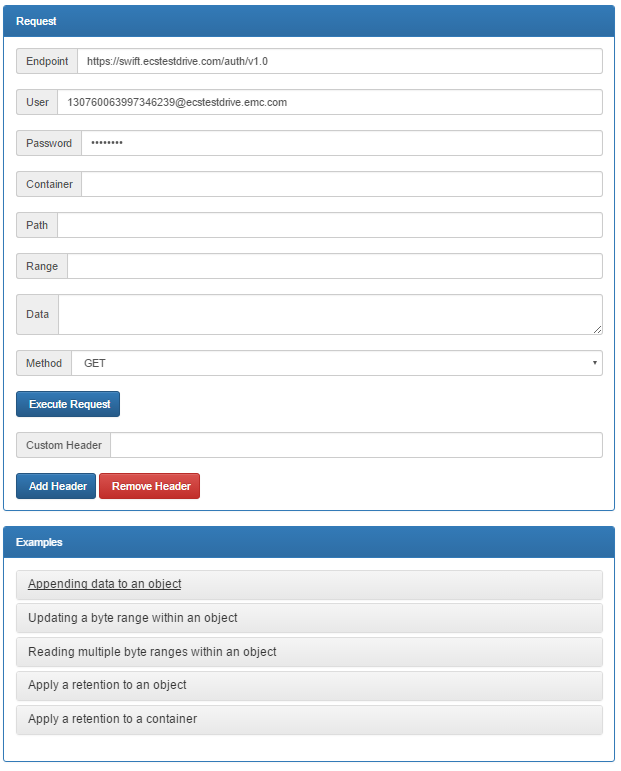
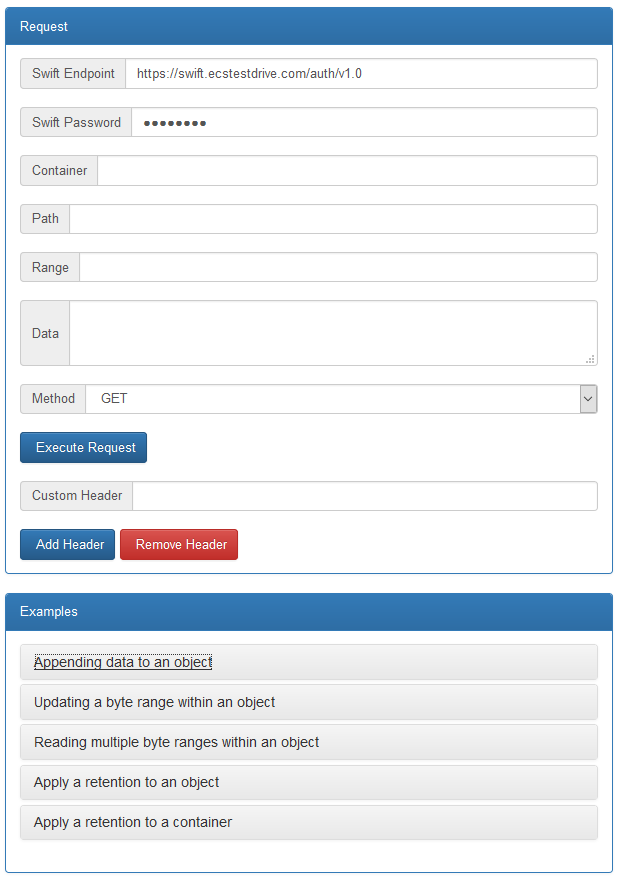
Updating the API lab

Changed region(s): [[0.0, 0.0, 1.0, 0.9961]]

diff --git a/apis/apis.md b/apis/apis.md
@@ -4,9 +4,9 @@ DellEMC Elastic Cloud Storage (ECS) is a software-defined, cloud-scale, object s
 
 ECS supports several Object Storage APIs (Amazon S3, Openstack Swift, Atmos, CAS), but also extends them to provide unique capabilities (metadata search, retention, byte range update, ...).
 
-You'll use the ECSUI web application to discover the different features. 
+You'll use the ECS API User Interface web application to discover the different features. 
 
-[ECSUI](https://github.com/djannot/ecsui) is a web application developed in Golang and leveraging AngularJS.
+[ECS API User Interface](https://github.com/djannot/ecsui) is a web application developed in Golang and leveraging AngularJS.
 
 The goals of ECSUI are to:
 

diff --git a/README.md b/README.md
@@ -2,8 +2,6 @@
 
 The ECS 401 training is focusing on hands-on labs to allow participants to become more familiar with different  ECS features and use cases. 
 
-
-
 This training is leveraging the ECS 3.0 VLAB.
 
 The environment is composed of 2 ECS systems deployed as 3 different nodes (192.168.1.11-13 and 192.168.1.21-23). A program is available on the Desktop to check the DT status of both ECS VDCs.
